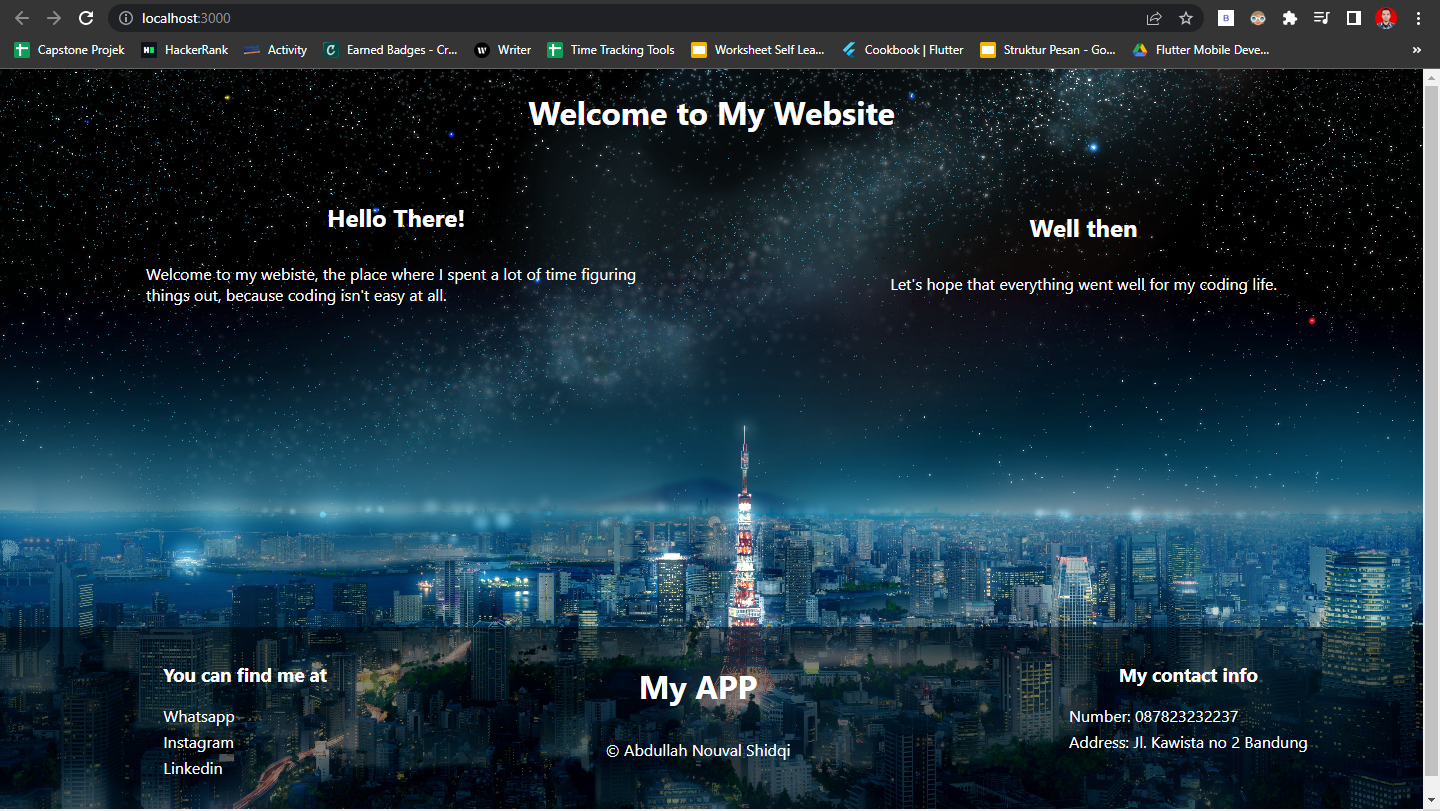
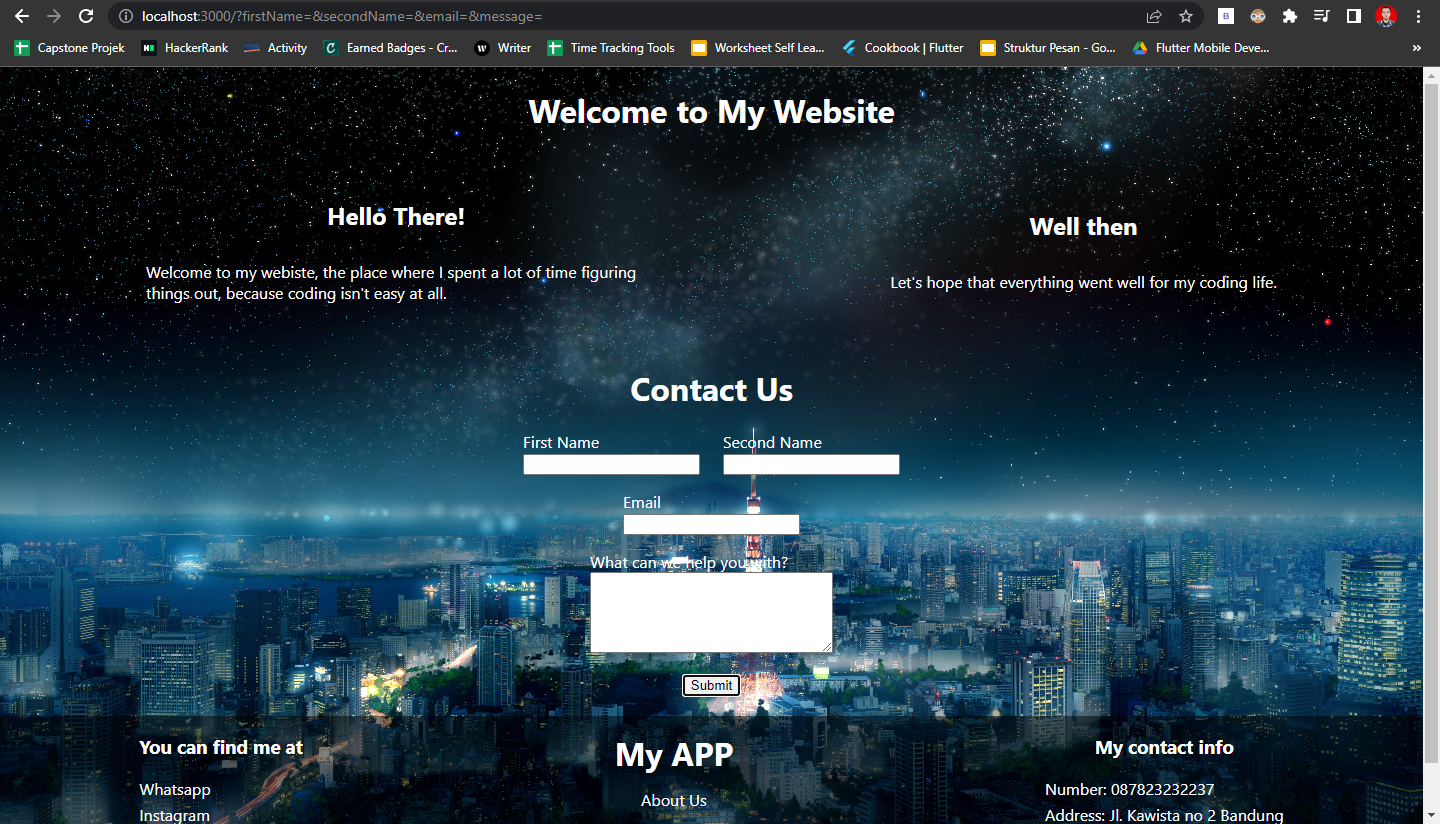
Weekly2: praktikum contact us from added

diff --git a/Weekly2/praktikum/praktikum_weekly2/src/components/contactForm/ContactForm.jsx b/Weekly2/praktikum/praktikum_weekly2/src/components/contactForm/ContactForm.jsx
@@ -1,0 +1,125 @@
+import { useState } from 'react'
+import './ContactForm.css'
+
+const ContactForm = () => {
+    const baseData = {
+        firstName: '',
+        secondName: '',
+        email: '',
+        message: ''
+    }
+
+    const alertMessages = {
+        firstNameAlert: '',
+        secondNameAlert: '',
+        emailAlert: '',
+        messageAlert: ''
+    }
+
+    const [data, setData] = useState(baseData);
+    const [errorMessage, setErrorMessage] = useState(alertMessages);
+
+    const nameRegEx = /^[a-zA-Z\s]*$/;
+    // eslint-disable-next-line no-useless-escape
+    const emailRegEx = /^\w+([\.-]?\w+)*@\w+([\.-]?\w+)*(\.\w{2,3})+$/;
+
+    const handleOnChange = (e) =>{
+        const name = e.target.name;
+        const value = e.target.value;
+
+        validator(name, value);
+
+        setData({...data, [name]: value})
+    }
+
+    const validator = (name, value) => {
+        switch(name){
+            case 'firstName':
+                if(!value.match(nameRegEx) || value === '' || value.includes('  ')){
+                    setErrorMessage({...errorMessage, firstNameAlert: "Nama Lengkap Harus Berupa Huruf"});
+                } else{
+                    setErrorMessage({...errorMessage, firstNameAlert: ""})
+                }
+                break;
+            case 'secondName':
+                if(!value.match(nameRegEx) || value === '' || value.includes('  ')){
+                    setErrorMessage({...errorMessage, firstNameAlert: "Nama Lengkap Harus Berupa Huruf"});
+                } else{
+                    setErrorMessage({...errorMessage, firstNameAlert: ""})
+                }
+                break;
+            case 'message':
+                if(value === ''){
+                    setErrorMessage({...errorMessage, messageAlert: 'Tolong masukkan message untuk kita'});
+                } else {
+                    setErrorMessage({...errorMessage, messageAlert: ''});
+                }
+                break;
+            default:
+                if(!value.match(emailRegEx)){
+                    setErrorMessage({...errorMessage, emailAlert: "Email Tidak Sesuai"});
+                } else {
+                    setErrorMessage({...errorMessage, emailAlert: ""});
+                }
+                break;
+        }
+    }
+
+    const submitValidate = () =>{
+        if(data.firstName === '' || data.secondName === '' || data.email === '' || data.message === ''){
+            return true;
+        }
+        return false;
+    }
+
+    const handleSubmit = (e) => {
+        e.preventDefault();
+
+        if(alertMessages.firstNameAlert !== '' || alertMessages.emailAlert !== '' || alertMessages.messageAlert !== '' || submitValidate()){
+            alert('Masih ada data yang tidak sesuai cek kembali');
+            return;
+        }
+        alert('Data berhasil dikirim');
+        setData(baseData);
+    }
+    
+    return(
+        <form onSubmit={handleSubmit}>
+            <div>
+                <h1>Contact Us</h1>
+                <div className="contact-form-container">
+                    <label htmlFor="firstName">
+                        First Name
+                        <br />
+                        <input type="text" name="firstName" value={data.firstName} onChange={handleOnChange}/>
+                    </label>
+                    <label htmlFor="secondName">
+                        Second Name
+                        <br />
+                        <input type="text" name="secondName" value={data.secondName} onChange={handleOnChange}/>
+                    </label>
+                </div>
+                <p className='alert-message'>{errorMessage.firstNameAlert}</p>
+                <div className="contact-form-container">
+                    <label htmlFor="email">
+                        Email
+                        <br />
+                        <input type="email" name="email" value={data.email} onChange={handleOnChange}/>
+                    </label>
+                </div>
+                <p className='alert-message'>{errorMessage.emailAlert}</p>
+                <div className="contact-form-container">
+                    <label htmlFor="message">
+                        What can we help you with?
+                        <br />
+                        <textarea name="message" id="" cols="30" rows="5" value={data.message} onChange={handleOnChange}></textarea>
+                    </label>
+                </div>
+                <p className='alert-message'>{errorMessage.messageAlert}</p>
+                <input type='submit' value='Submit'/>
+            </div>
+        </form>
+    );
+}
+
+export default ContactForm;

diff --git a/Weekly2/praktikum/praktikum_weekly2/src/components/footer/Footer.jsx b/Weekly2/praktikum/praktikum_weekly2/src/components/footer/Footer.jsx
@@ -1,31 +1,31 @@
+import { Link } from 'react-router-dom';
 import './Footer.css'
 
 const Footer = () => {
     return(
-        <>
-            <div className='costum-footer'>
-                <label htmlFor="list" className='custum-label'>
-                    <h3>You can find me at</h3>
-                    <ul className='costum-ul'>
-                        <li><a href='https://wa.me/087823232237' target='_blank' rel="noreferrer">Whatsapp</a></li>
-                        <li><a href='https://www.instagram.com/abdullah_nouval/' target='_blank' rel="noreferrer">Instagram</a></li>
-                        <li><a href='https://www.linkedin.com/in/abdullah-nouval-182a01232/' target='_blank' rel="noreferrer">Linkedin</a></li>
-                    </ul>
-                </label>
-                <div>
-                    <h1>My APP</h1>
-                    <p>&#169; Abdullah Nouval Shidqi</p>
-                </div>
-                
-                <label htmlFor="list" className='custum-label'>
-                    <h3>My contact info</h3>
-                    <ul className='costum-ul'>
-                        <li>Number: 087823232237</li>
-                        <li>Address: Jl. Kawista no 2 Bandung</li>
-                    </ul>
-                </label>
+        <div className='costum-footer'>
+            <label htmlFor="list" className='custum-label'>
+                <h3>You can find me at</h3>
+                <ul className='costum-ul'>
+                    <li><a href='https://wa.me/087823232237' target='_blank' rel="noreferrer">Whatsapp</a></li>
+                    <li><a href='https://www.instagram.com/abdullah_nouval/' target='_blank' rel="noreferrer">Instagram</a></li>
+                    <li><a href='https://www.linkedin.com/in/abdullah-nouval-182a01232/' target='_blank' rel="noreferrer">Linkedin</a></li>
+                </ul>
+            </label>
+            <div className='main-footer-title'>
+                <h1 className='costum-h1'>My APP</h1>
+                <Link to='/about'>About Us</Link>
+                <p>&#169; Abdullah Nouval Shidqi</p>
             </div>
-        </>
+            
+            <label htmlFor="list" className='custum-label'>
+                <h3>My contact info</h3>
+                <ul className='costum-ul'>
+                    <li>Number: 087823232237</li>
+                    <li>Address: Jl. Kawista no 2 Bandung</li>
+                </ul>
+            </label>
+        </div>
     );
 }
 

diff --git a/Weekly2/praktikum/praktikum_weekly2/src/pages/home/Home.jsx b/Weekly2/praktikum/praktikum_weekly2/src/pages/home/Home.jsx
@@ -1,6 +1,6 @@
-import Body from "../body/Body";
-import Footer from "../footer/Footer";
-import Header from "../header/Header";
+import Body from "../../components/body/Body";
+import Footer from "../../components/footer/Footer";
+import Header from "../../components/header/Header";
 import './Home.css'
 
 const Home = () => {
@@ -10,7 +10,6 @@ const Home = () => {
             <Body />
             <Footer />
         </div>
-        
     );
 }
 

diff --git a/Weekly2/praktikum/praktikum_weekly2/src/routers/Routers.jsx b/Weekly2/praktikum/praktikum_weekly2/src/routers/Routers.jsx
@@ -1,0 +1,16 @@
+import {BrowserRouter, Route, Routes} from 'react-router-dom';
+import About from '../pages/about/About';
+import Home from '../pages/home/Home';
+
+const Routers = () => {
+    return(
+        <BrowserRouter>
+            <Routes>
+                <Route path='/' element={<Home />} />
+                <Route path='/about' element={<About />} />
+            </Routes>
+        </BrowserRouter>
+    );
+}
+
+export default Routers;

diff --git a/Weekly2/praktikum/praktikum_weekly2/src/components/footer/Footer.css b/Weekly2/praktikum/praktikum_weekly2/src/components/footer/Footer.css
@@ -1,18 +1,21 @@
 .costum-footer{
-    position: absolute;
-    bottom: 0;
     width: 100%;
     height: 150px;
     background-color: rgba(0, 0, 0, 0.5);
     display: flex;
     justify-content: space-around;
     align-items: flex-start;
-    padding: 1rem 1.5rem;
+    padding: 0;
+    margin-top: 20px;
 }
 
 a{
     text-decoration: none;
     color: white;
+}
+
+.costum-h1{
+    margin: 15px;
 }
 
 a:hover{

diff --git a/Weekly2/praktikum/praktikum_weekly2/src/components/body/Body.jsx b/Weekly2/praktikum/praktikum_weekly2/src/components/body/Body.jsx
@@ -1,3 +1,4 @@
+import ContactForm from '../contactForm/ContactForm';
 import './Body.css'
 
 const Body = () =>{
@@ -13,6 +14,7 @@ const Body = () =>{
                     <p>Let's hope that everything went well for my coding life.</p>
                 </div>
             </div>
+            <ContactForm />
         </div>
     );
 }

diff --git a/Weekly2/praktikum/praktikum_weekly2/src/components/contactForm/ContactForm.css b/Weekly2/praktikum/praktikum_weekly2/src/components/contactForm/ContactForm.css
@@ -1,0 +1,16 @@
+.contact-form-container{
+    display: flex;
+    flex-direction: row;
+    max-width: 400px;
+    text-align: start;
+    justify-content: space-around;
+    margin: auto;
+}
+
+.alert-message{
+    font-weight: 500;
+    padding: 0;
+    margin-bottom: 0;
+    color: red;
+    text-align: center;
+}

diff --git a/Weekly2/praktikum/praktikum_weekly2/src/App.js b/Weekly2/praktikum/praktikum_weekly2/src/App.js
@@ -1,11 +1,11 @@
 import './App.css';
-import Home from './components/home/Home';
+import Routers from './routers/Routers';
 
 function App() {
   return (
-    <>
-      <Home />
-    </>
+    <div className='App'>
+      <Routers />
+    </div>
   );
 }
 

diff --git a/Weekly2/praktikum/praktikum_weekly2/src/pages/home/Home.css b/Weekly2/praktikum/praktikum_weekly2/src/pages/home/Home.css
@@ -2,7 +2,7 @@
     text-align: center;
     color: white;
     background-image: url(../../assets/images/dark-background.jpg);
-    overflow: hidden;
+    overflow-y: scroll;
     background-size: cover;
     width: 100%;
     height: 100vh;

diff --git a/Weekly2/praktikum/praktikum_weekly2/src/pages/about/About.jsx b/Weekly2/praktikum/praktikum_weekly2/src/pages/about/About.jsx
@@ -1,0 +1,7 @@
+const About = () => {
+    return(
+        <p>This is about us page</p>
+    );
+};
+
+export default About;
